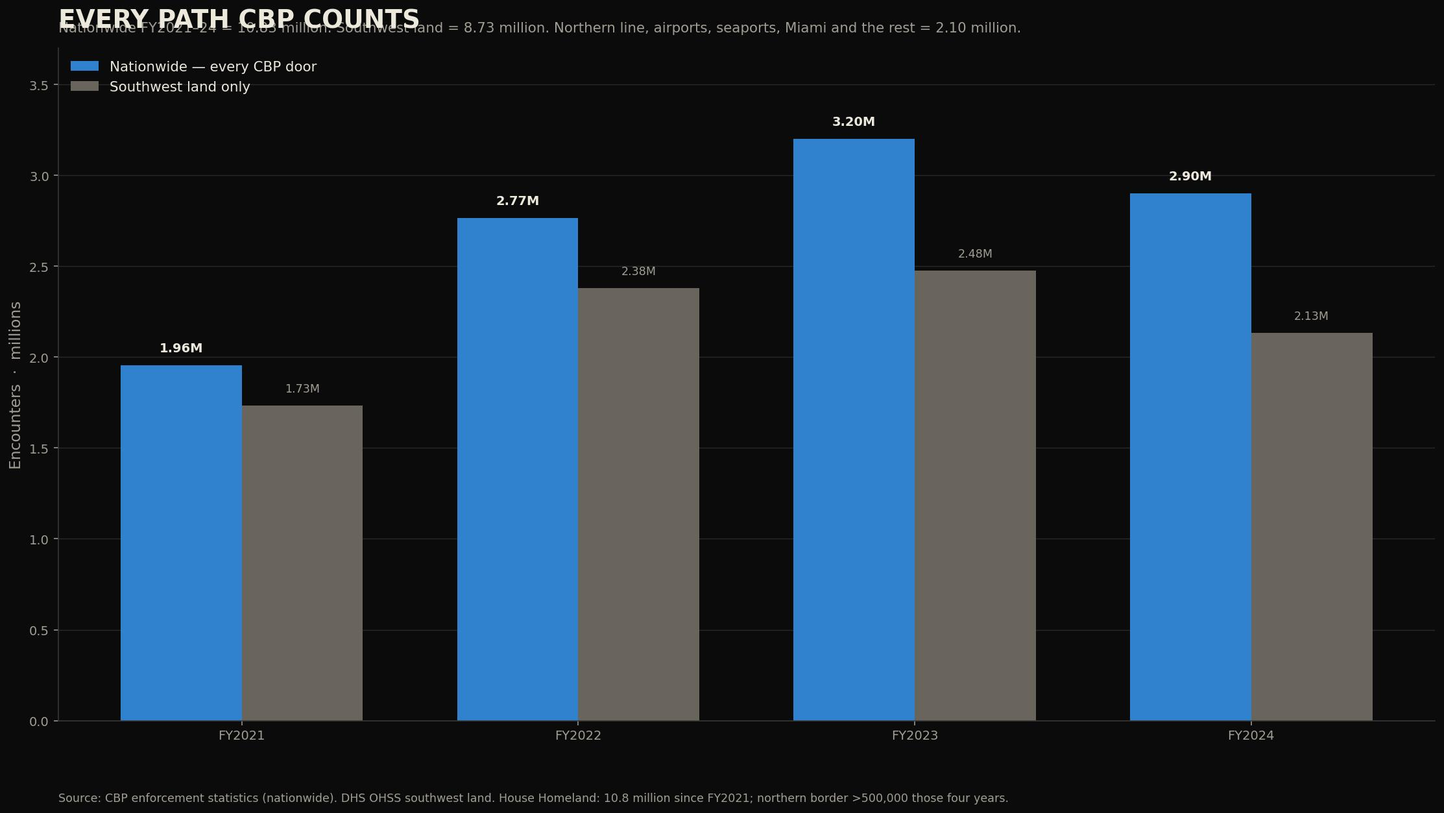
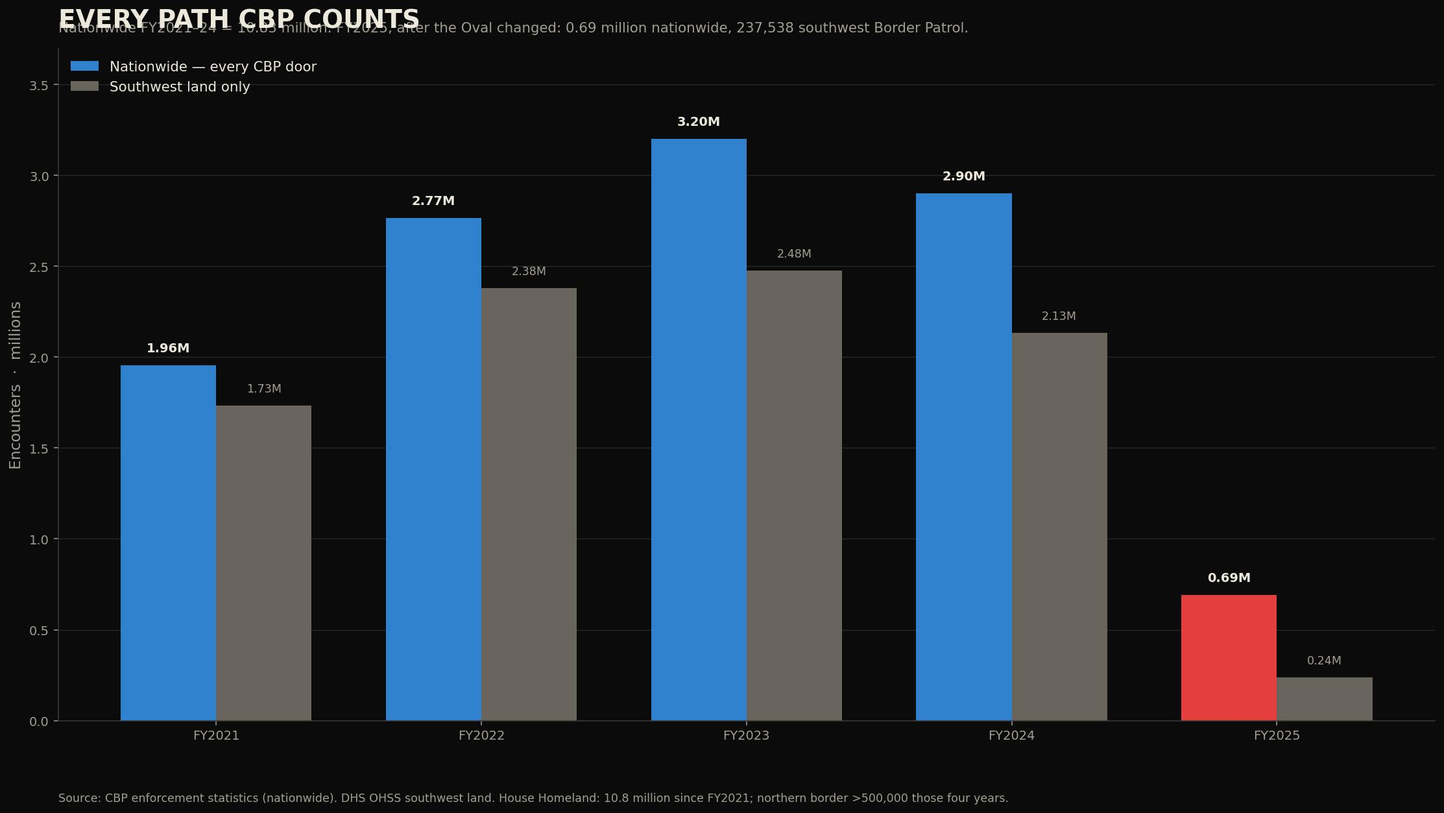
Charts: add Trump 2 peaks — CPI 4.2%, gas .50, FY2025 0.69M encounters.

diff --git a/UPLOAD-TO-NAMECHEAP/scorecard.html b/UPLOAD-TO-NAMECHEAP/scorecard.html
@@ -106,12 +106,12 @@ footer .f{max-width:72rem;margin:0 auto;display:flex;justify-content:space-betwe
 </div>
 <div class="panel" id="oval-charts">
 <p class="btns"><a class="btn" href="#oval-charts">Charts</a><a class="btn out" href="#oval-read">Read</a></p>
-<p class="kicker">What an encounter is</p><p>Customs and Border Protection counts an encounter when its officers meet a person who is not making a lawful entry. That is Border Patrol between the ports of entry, and officers at land ports, airports, and seaports. It is people stopped, turned back, expelled, or processed. It is not a visa. It is not a gotaway — those are the people CBP did not meet. Nationwide means every door CBP counts, not only the southwest river. Bush and Obama use southwest Border Patrol, the long official table. Trump 1 and Biden use CBP nationwide when that dashboard exists. Four Ovals: two Republican, two Democratic.</p><p><a href="https://www.cbp.gov/newsroom/stats/nationwide-encounters">CBP — nationwide encounters →</a></p><p class="kicker">What CPI peak means</p><p>CPI is the Consumer Price Index. The Bureau of Labor Statistics measures a basket of what people actually buy — groceries, rent, fuel, the doctor’s office — and reports how much more that basket costs than a year earlier. CPI peak is the highest of those 12-month readings in that Oval. It is not a four-year average. Biden’s 9.1% is June 2022. Bush’s 5.6% is July 2008. Obama’s 3.9% is September 2011. Trump’s first term: 2.9%.</p><p><a href="https://www.bls.gov/cpi/">BLS — Consumer Price Index →</a></p>
+<p class="kicker">What an encounter is</p><p>Customs and Border Protection counts an encounter when its officers meet a person who is not making a lawful entry. That is Border Patrol between the ports of entry, and officers at land ports, airports, and seaports. It is people stopped, turned back, expelled, or processed. It is not a visa. It is not a gotaway — those are the people CBP did not meet. Nationwide means every door CBP counts, not only the southwest river. Bush and Obama use southwest Border Patrol, the long official table. Trump 1, Biden, and Trump 2 use CBP nationwide when that dashboard exists.</p><p><a href="https://www.cbp.gov/newsroom/stats/nationwide-encounters">CBP — nationwide encounters →</a></p><p class="kicker">What CPI peak means</p><p>CPI is the Consumer Price Index. The Bureau of Labor Statistics measures a basket of what people actually buy — groceries, rent, fuel, the doctor’s office — and reports how much more that basket costs than a year earlier. CPI peak is the highest of those 12-month readings in that Oval. It is not a four-year average. Biden’s 9.1% is June 2022. Bush’s 5.6% is July 2008. Obama’s 3.9% is September 2011. Trump 1: 2.9%. Trump 2 so far: 4.2% in May 2026.</p><p><a href="https://www.bls.gov/cpi/">BLS — Consumer Price Index →</a></p>
 <figure><p class="kicker">The Oval — encounters and the highest price spike (CPI)</p><img src="/images/chart-oval.jpg" alt="The Oval — encounters and the highest price spike (CPI)"/><figcaption style="color:#a39e93;font-size:.85rem"><a href="https://www.cbp.gov/newsroom/stats/cbp-enforcement-statistics">CBP — enforcement statistics</a> · <a href="https://www.bls.gov/cpi/">BLS — CPI</a> · <a href="https://www.eia.gov/petroleum/gasdiesel/">EIA — the gallon</a></figcaption></figure><figure><p class="kicker">The gallon — four administrations</p><img src="/images/chart-pump-admins.jpg" alt="The gallon — four administrations"/><figcaption style="color:#a39e93;font-size:.85rem"><a href="https://www.eia.gov/petroleum/gasdiesel/">EIA</a> · <a href="https://fred.stlouisfed.org/series/GASREGW">FRED GASREGW</a></figcaption></figure><figure><p class="kicker">Crime — murder rate by administration</p><img src="/images/chart-crime.jpg" alt="Crime — murder rate by administration"/><figcaption style="color:#a39e93;font-size:.85rem"><a href="https://www.fbi.gov/news/stories/violent-crime-falls-at-historic-rate-new-fbi-data-show">FBI — violent crime 2025</a> · <a href="https://bjs.ojp.gov/document/ckle24.pdf">BJS — Crime Known to Law Enforcement, 2024</a></figcaption></figure><figure><p class="kicker">The open border — by administration</p><img src="/images/chart-border.jpg" alt="The open border — by administration"/><figcaption style="color:#a39e93;font-size:.85rem"><a href="https://www.cbp.gov/newsroom/stats/southwest-land-border-encounters">CBP — southwest encounters</a> · <a href="https://www.cbo.gov/publication/61256">CBO — 2023 state and local cost</a></figcaption></figure>
 </div>
 <div class="panel" id="compare-charts">
 <p class="btns"><a class="btn" href="#compare-charts">Charts</a><a class="btn out" href="#compare-read">Read</a></p>
-<p class="kicker">What an encounter is</p><p>Customs and Border Protection counts an encounter when its officers meet a person who is not making a lawful entry. That is Border Patrol between the ports of entry, and officers at land ports, airports, and seaports. It is people stopped, turned back, expelled, or processed. It is not a visa. It is not a gotaway — those are the people CBP did not meet. Nationwide means every door CBP counts, not only the southwest river. Bush and Obama use southwest Border Patrol, the long official table. Trump 1 and Biden use CBP nationwide when that dashboard exists. Four Ovals: two Republican, two Democratic.</p><p><a href="https://www.cbp.gov/newsroom/stats/nationwide-encounters">CBP — nationwide encounters →</a></p><p class="kicker">What CPI peak means</p><p>CPI is the Consumer Price Index. The Bureau of Labor Statistics measures a basket of what people actually buy — groceries, rent, fuel, the doctor’s office — and reports how much more that basket costs than a year earlier. CPI peak is the highest of those 12-month readings in that Oval. It is not a four-year average. Biden’s 9.1% is June 2022. Bush’s 5.6% is July 2008. Obama’s 3.9% is September 2011. Trump’s first term: 2.9%.</p><p><a href="https://www.bls.gov/cpi/">BLS — Consumer Price Index →</a></p>
+<p class="kicker">What an encounter is</p><p>Customs and Border Protection counts an encounter when its officers meet a person who is not making a lawful entry. That is Border Patrol between the ports of entry, and officers at land ports, airports, and seaports. It is people stopped, turned back, expelled, or processed. It is not a visa. It is not a gotaway — those are the people CBP did not meet. Nationwide means every door CBP counts, not only the southwest river. Bush and Obama use southwest Border Patrol, the long official table. Trump 1, Biden, and Trump 2 use CBP nationwide when that dashboard exists.</p><p><a href="https://www.cbp.gov/newsroom/stats/nationwide-encounters">CBP — nationwide encounters →</a></p><p class="kicker">What CPI peak means</p><p>CPI is the Consumer Price Index. The Bureau of Labor Statistics measures a basket of what people actually buy — groceries, rent, fuel, the doctor’s office — and reports how much more that basket costs than a year earlier. CPI peak is the highest of those 12-month readings in that Oval. It is not a four-year average. Biden’s 9.1% is June 2022. Bush’s 5.6% is July 2008. Obama’s 3.9% is September 2011. Trump 1: 2.9%. Trump 2 so far: 4.2% in May 2026.</p><p><a href="https://www.bls.gov/cpi/">BLS — Consumer Price Index →</a></p>
 <figure><p class="kicker">Helped and hurt — Congress and the Oval</p><img src="/images/chart-helped-hurt.jpg" alt="Helped and hurt — Congress and the Oval"/><figcaption style="color:#a39e93;font-size:.85rem"><a href="https://www.congress.gov/">Congress.gov</a> · <a href="https://www.bls.gov/cpi/">BLS CPI</a> · <a href="https://www.eia.gov/petroleum/gasdiesel/">EIA — the gallon</a> · <a href="https://www.cbp.gov/newsroom/stats/nationwide-encounters">CBP nationwide</a></figcaption></figure><figure><p class="kicker">The Oval — encounters and the highest price spike (CPI)</p><img src="/images/chart-oval.jpg" alt="The Oval — encounters and the highest price spike (CPI)"/><figcaption style="color:#a39e93;font-size:.85rem"><a href="https://www.cbp.gov/newsroom/stats/cbp-enforcement-statistics">CBP — enforcement statistics</a> · <a href="https://www.bls.gov/cpi/">BLS — CPI</a> · <a href="https://www.eia.gov/petroleum/gasdiesel/">EIA — the gallon</a></figcaption></figure><figure><p class="kicker">The debt — no oversight, $40 trillion, full-time pay for part-time hours</p><img src="/images/chart-debt-why.jpg" alt="The debt — no oversight, $40 trillion, full-time pay for part-time hours"/><figcaption style="color:#a39e93;font-size:.85rem"><a href="https://www.cbo.gov/topics/budget">CBO — budget</a> · <a href="https://fiscaldata.treasury.gov/datasets/debt-to-the-penny/">Treasury — Debt to the Penny</a> · <a href="https://www.gao.gov/products/gao-25-107746">GAO fraud</a></figcaption></figure><figure><p class="kicker">The invasion bill — taxpayer cost and the eligibility doors</p><img src="/images/chart-aliens.jpg" alt="The invasion bill — taxpayer cost and the eligibility doors"/><figcaption style="color:#a39e93;font-size:.85rem"><a href="https://www.cbp.gov/newsroom/stats/nationwide-encounters">CBP nationwide</a> · <a href="https://www.cbo.gov/publication/61256">CBO 61256</a> · <a href="https://www.cbo.gov/publication/60805">CBO 60805</a> · <a href="https://www.law.cornell.edu/uscode/text/8/1611">8 U.S.C. § 1611</a></figcaption></figure><figure><p class="kicker">Actual inflation — who held Congress</p><img src="/images/chart-inflation-party.jpg" alt="Actual inflation — who held Congress"/><figcaption style="color:#a39e93;font-size:.85rem"><a href="https://www.bls.gov/cpi/">BLS CPI-U</a> · <a href="https://www.bls.gov/news.release/archives/cpi_07132022.htm">9.1% — June 2022</a> · <a href="https://www.bls.gov/news.release/cpi.nr0.htm">BLS live — August 2026, 3.4%</a> · <a href="https://fred.stlouisfed.org/graph/?id=CPIAUCSL&units=pc1">FRED — 12-month CPI</a></figcaption></figure><figure><p class="kicker">Policy — success and failure</p><img src="/images/chart-policy.jpg" alt="Policy — success and failure"/><figcaption style="color:#a39e93;font-size:.85rem"><a href="https://www.congress.gov/">Congress.gov</a> · <a href="https://www.bls.gov/news.release/archives/cpi_07132022.htm">BLS — June 2022</a></figcaption></figure><figure><p class="kicker">The open border — by administration</p><img src="/images/chart-border.jpg" alt="The open border — by administration"/><figcaption style="color:#a39e93;font-size:.85rem"><a href="https://www.cbp.gov/newsroom/stats/southwest-land-border-encounters">CBP — southwest encounters</a> · <a href="https://www.cbo.gov/publication/61256">CBO — 2023 state and local cost</a></figcaption></figure><figure><p class="kicker">Crime — murder rate by administration</p><img src="/images/chart-crime.jpg" alt="Crime — murder rate by administration"/><figcaption style="color:#a39e93;font-size:.85rem"><a href="https://www.fbi.gov/news/stories/violent-crime-falls-at-historic-rate-new-fbi-data-show">FBI — violent crime 2025</a> · <a href="https://bjs.ojp.gov/document/ckle24.pdf">BJS — Crime Known to Law Enforcement, 2024</a></figcaption></figure><figure><p class="kicker">The gallon — four administrations</p><img src="/images/chart-pump-admins.jpg" alt="The gallon — four administrations"/><figcaption style="color:#a39e93;font-size:.85rem"><a href="https://www.eia.gov/petroleum/gasdiesel/">EIA</a> · <a href="https://fred.stlouisfed.org/series/GASREGW">FRED GASREGW</a></figcaption></figure><figure><p class="kicker">Highest week of each year, 2001–2026</p><img src="/images/chart-pump-years.jpg" alt="Highest week of each year, 2001–2026"/><figcaption style="color:#a39e93;font-size:.85rem"><a href="https://www.eia.gov/petroleum/gasdiesel/">EIA</a> · <a href="https://fred.stlouisfed.org/series/GASREGW">FRED GASREGW</a></figcaption></figure><figure><p class="kicker">How a gallon is built — OPEC to the pump</p><img src="/images/chart-pump-flow.jpg" alt="How a gallon is built — OPEC to the pump"/><figcaption style="color:#a39e93;font-size:.85rem"><a href="https://www.eia.gov/petroleum/gasdiesel/">EIA</a> · <a href="https://fred.stlouisfed.org/series/GASREGW">FRED GASREGW</a></figcaption></figure>
 </div>
 <div class="panel" id="gop-read">
@@ -166,12 +166,12 @@ footer .f{max-width:72rem;margin:0 auto;display:flex;justify-content:space-betwe
 <p class="btns"><a class="btn out" href="#oval-charts">Charts</a><a class="btn" href="#oval-read">Read</a></p>
 <h2>Oval</h2>
 <p class="kicker">What an encounter is</p>
-<p>Customs and Border Protection counts an encounter when its officers meet a person who is not making a lawful entry. That is Border Patrol between the ports of entry, and officers at land ports, airports, and seaports. It is people stopped, turned back, expelled, or processed. It is not a visa. It is not a gotaway — those are the people CBP did not meet. Nationwide means every door CBP counts, not only the southwest river. Bush and Obama use southwest Border Patrol, the long official table. Trump 1 and Biden use CBP nationwide when that dashboard exists. Four Ovals: two Republican, two Democratic.</p>
+<p>Customs and Border Protection counts an encounter when its officers meet a person who is not making a lawful entry. That is Border Patrol between the ports of entry, and officers at land ports, airports, and seaports. It is people stopped, turned back, expelled, or processed. It is not a visa. It is not a gotaway — those are the people CBP did not meet. Nationwide means every door CBP counts, not only the southwest river. Bush and Obama use southwest Border Patrol, the long official table. Trump 1, Biden, and Trump 2 use CBP nationwide when that dashboard exists.</p>
 <p><a href="https://www.cbp.gov/newsroom/stats/nationwide-encounters">CBP — nationwide encounters →</a></p>
 <p class="kicker">What CPI peak means</p>
-<p>CPI is the Consumer Price Index. The Bureau of Labor Statistics measures a basket of what people actually buy — groceries, rent, fuel, the doctor’s office — and reports how much more that basket costs than a year earlier. CPI peak is the highest of those 12-month readings in that Oval. It is not a four-year average. Biden’s 9.1% is June 2022. Bush’s 5.6% is July 2008. Obama’s 3.9% is September 2011. Trump’s first term: 2.9%.</p>
+<p>CPI is the Consumer Price Index. The Bureau of Labor Statistics measures a basket of what people actually buy — groceries, rent, fuel, the doctor’s office — and reports how much more that basket costs than a year earlier. CPI peak is the highest of those 12-month readings in that Oval. It is not a four-year average. Biden’s 9.1% is June 2022. Bush’s 5.6% is July 2008. Obama’s 3.9% is September 2011. Trump 1: 2.9%. Trump 2 so far: 4.2% in May 2026.</p>
 <p><a href="https://www.bls.gov/cpi/">BLS — Consumer Price Index →</a></p>
-<div class="grid"><div class="card" style="padding:1.2rem"><p class="kicker">Bush</p><p>FY2001–08</p><h3>8.02 million</h3><p>Southwest Border Patrol apprehensions, FY2001–08. CPI peak July 2008. EIA weekly regular: highest week $4.114 (July 7, 2008).</p><h3>5.6%</h3><p>CPI peak — highest 12-month rise in prices that Oval (groceries, rent, fuel)</p><h3>$4.114 peak</h3><p>highest EIA weekly gasoline</p></div><div class="card" style="padding:1.2rem"><p class="kicker">Obama</p><p>FY2009–16</p><h3>3.31 million</h3><p>Southwest Border Patrol apprehensions, FY2009–16. CBP’s nationwide combined dashboard was not published for those years. CPI peak September 2011. EIA weekly regular: highest week $3.965 (May 9, 2011).</p><h3>3.9%</h3><p>CPI peak — highest 12-month rise in prices that Oval (groceries, rent, fuel)</p><h3>$3.965 peak</h3><p>highest EIA weekly gasoline</p></div><div class="card" style="padding:1.2rem"><p class="kicker">Trump 1</p><p>FY2017–20</p><h3>3.00 million</h3><p>Nationwide encounters. CPI peak in the term. EIA weekly regular: highest week $2.962 (May 28, 2018).</p><h3>2.9%</h3><p>CPI peak — highest 12-month rise in prices that Oval (groceries, rent, fuel)</p><h3>$2.96 peak</h3><p>highest EIA weekly gasoline</p></div><div class="card" style="padding:1.2rem"><p class="kicker">Biden</p><p>FY2021–24</p><h3>10.83 million</h3><p>Nationwide encounters. CPI June 2022. EIA weekly regular: $5.006 the week of June 13, 2022.</p><h3>9.1%</h3><p>CPI peak — highest 12-month rise in prices that Oval (groceries, rent, fuel)</p><h3>$5.006 peak</h3><p>highest EIA weekly gasoline</p></div></div>
+<div class="grid"><div class="card" style="padding:1.2rem"><p class="kicker">Bush</p><p>FY2001–08</p><h3>8.02 million</h3><p>Southwest Border Patrol apprehensions, FY2001–08. CPI peak July 2008. EIA weekly regular: highest week $4.114 (July 7, 2008).</p><h3>5.6%</h3><p>CPI peak — highest 12-month rise in prices that Oval (groceries, rent, fuel)</p><h3>$4.114 peak</h3><p>highest EIA weekly gasoline</p></div><div class="card" style="padding:1.2rem"><p class="kicker">Obama</p><p>FY2009–16</p><h3>3.31 million</h3><p>Southwest Border Patrol apprehensions, FY2009–16. CBP’s nationwide combined dashboard was not published for those years. CPI peak September 2011. EIA weekly regular: highest week $3.965 (May 9, 2011).</p><h3>3.9%</h3><p>CPI peak — highest 12-month rise in prices that Oval (groceries, rent, fuel)</p><h3>$3.965 peak</h3><p>highest EIA weekly gasoline</p></div><div class="card" style="padding:1.2rem"><p class="kicker">Trump 1</p><p>FY2017–20</p><h3>3.00 million</h3><p>Nationwide encounters. CPI peak in the term. EIA weekly regular: highest week $2.962 (May 28, 2018).</p><h3>2.9%</h3><p>CPI peak — highest 12-month rise in prices that Oval (groceries, rent, fuel)</p><h3>$2.96 peak</h3><p>highest EIA weekly gasoline</p></div><div class="card" style="padding:1.2rem"><p class="kicker">Biden</p><p>FY2021–24</p><h3>10.83 million</h3><p>Nationwide encounters. CPI June 2022. EIA weekly regular: $5.006 the week of June 13, 2022.</p><h3>9.1%</h3><p>CPI peak — highest 12-month rise in prices that Oval (groceries, rent, fuel)</p><h3>$5.006 peak</h3><p>highest EIA weekly gasoline</p></div><div class="card" style="padding:1.2rem"><p class="kicker">Trump 2</p><p>FY2025–</p><h3>0.69 million</h3><p>FY2025 nationwide 691,906. Southwest Border Patrol 237,538 — lowest since 1970. CPI peak so far: 4.2% in May 2026 (FRED CPIAUCSL, 12-month). EIA weekly regular: highest week $4.500 (May 11, 2026). The fiscal year started under Biden; the Oval changed January 20.</p><h3>4.2%</h3><p>CPI peak — highest 12-month rise in prices that Oval (groceries, rent, fuel)</p><h3>$4.50 peak</h3><p>highest EIA weekly gasoline</p></div></div>
 <p><a href="https://www.cbp.gov/newsroom/stats/nationwide-encounters"><strong>This term</strong> · FY2025 · 0.69 million nationwide. After the Oval changed. Southwest Border Patrol 237,538 — lowest since 1970.</a></p>
 <p><a href="https://www.cbp.gov/newsroom/stats/nationwide-encounters">CBP — nationwide encounters</a> · <a href="https://www.cbp.gov/document/stats/us-border-patrol-fiscal-year-southwest-border-sector-apprehensions-fy-1960-fy-2019">CBP — southwest Border Patrol FY1960–2019</a> · <a href="https://www.bls.gov/news.release/archives/cpi_08142008.htm">BLS — CPI July 2008, 5.6%</a> · <a href="https://www.bls.gov/news.release/archives/cpi_10192011.htm">BLS — CPI September 2011, 3.9%</a> · <a href="https://www.cbp.gov/newsroom/stats/cbp-enforcement-statistics">CBP — enforcement statistics</a> · <a href="https://www.bls.gov/cpi/">BLS — CPI</a> · <a href="https://www.eia.gov/petroleum/gasdiesel/">EIA — the gallon</a> · <a href="/pump.html">The pump</a></p>
 </div>
@@ -182,10 +182,10 @@ footer .f{max-width:72rem;margin:0 auto;display:flex;justify-content:space-betwe
 <p>Article I gives Congress the power of the purse. The Oval spends what Congress votes. Majority control means one party holds the House and the Senate at the same time. Then that party can pass a spending bill without the other. Success and failure on this page are the bills they passed and the prices, the border, and the debt that followed. A speech is not a record.</p>
 <p><a href="https://constitution.congress.gov/constitution/article-1/">Article I →</a></p>
 <p class="kicker">What an encounter is</p>
-<p>Customs and Border Protection counts an encounter when its officers meet a person who is not making a lawful entry. That is Border Patrol between the ports of entry, and officers at land ports, airports, and seaports. It is people stopped, turned back, expelled, or processed. It is not a visa. It is not a gotaway — those are the people CBP did not meet. Nationwide means every door CBP counts, not only the southwest river. Bush and Obama use southwest Border Patrol, the long official table. Trump 1 and Biden use CBP nationwide when that dashboard exists. Four Ovals: two Republican, two Democratic.</p>
+<p>Customs and Border Protection counts an encounter when its officers meet a person who is not making a lawful entry. That is Border Patrol between the ports of entry, and officers at land ports, airports, and seaports. It is people stopped, turned back, expelled, or processed. It is not a visa. It is not a gotaway — those are the people CBP did not meet. Nationwide means every door CBP counts, not only the southwest river. Bush and Obama use southwest Border Patrol, the long official table. Trump 1, Biden, and Trump 2 use CBP nationwide when that dashboard exists.</p>
 <p class="kicker">What CPI peak means</p>
-<p>CPI is the Consumer Price Index. The Bureau of Labor Statistics measures a basket of what people actually buy — groceries, rent, fuel, the doctor’s office — and reports how much more that basket costs than a year earlier. CPI peak is the highest of those 12-month readings in that Oval. It is not a four-year average. Biden’s 9.1% is June 2022. Bush’s 5.6% is July 2008. Obama’s 3.9% is September 2011. Trump’s first term: 2.9%.</p>
-<div class="grid"><div class="card" style="padding:1.2rem"><p class="kicker">Bush</p><p>FY2001–08</p><h3>8.02 million</h3><h3>5.6%</h3><p>CPI peak — highest 12-month rise in prices that Oval (groceries, rent, fuel)</p><h3>$4.114 peak</h3></div><div class="card" style="padding:1.2rem"><p class="kicker">Obama</p><p>FY2009–16</p><h3>3.31 million</h3><h3>3.9%</h3><p>CPI peak — highest 12-month rise in prices that Oval (groceries, rent, fuel)</p><h3>$3.965 peak</h3></div><div class="card" style="padding:1.2rem"><p class="kicker">Trump 1</p><p>FY2017–20</p><h3>3.00 million</h3><h3>2.9%</h3><p>CPI peak — highest 12-month rise in prices that Oval (groceries, rent, fuel)</p><h3>$2.96 peak</h3></div><div class="card" style="padding:1.2rem"><p class="kicker">Biden</p><p>FY2021–24</p><h3>10.83 million</h3><h3>9.1%</h3><p>CPI peak — highest 12-month rise in prices that Oval (groceries, rent, fuel)</p><h3>$5.006 peak</h3></div></div>
+<p>CPI is the Consumer Price Index. The Bureau of Labor Statistics measures a basket of what people actually buy — groceries, rent, fuel, the doctor’s office — and reports how much more that basket costs than a year earlier. CPI peak is the highest of those 12-month readings in that Oval. It is not a four-year average. Biden’s 9.1% is June 2022. Bush’s 5.6% is July 2008. Obama’s 3.9% is September 2011. Trump 1: 2.9%. Trump 2 so far: 4.2% in May 2026.</p>
+<div class="grid"><div class="card" style="padding:1.2rem"><p class="kicker">Bush</p><p>FY2001–08</p><h3>8.02 million</h3><h3>5.6%</h3><p>CPI peak — highest 12-month rise in prices that Oval (groceries, rent, fuel)</p><h3>$4.114 peak</h3></div><div class="card" style="padding:1.2rem"><p class="kicker">Obama</p><p>FY2009–16</p><h3>3.31 million</h3><h3>3.9%</h3><p>CPI peak — highest 12-month rise in prices that Oval (groceries, rent, fuel)</p><h3>$3.965 peak</h3></div><div class="card" style="padding:1.2rem"><p class="kicker">Trump 1</p><p>FY2017–20</p><h3>3.00 million</h3><h3>2.9%</h3><p>CPI peak — highest 12-month rise in prices that Oval (groceries, rent, fuel)</p><h3>$2.96 peak</h3></div><div class="card" style="padding:1.2rem"><p class="kicker">Biden</p><p>FY2021–24</p><h3>10.83 million</h3><h3>9.1%</h3><p>CPI peak — highest 12-month rise in prices that Oval (groceries, rent, fuel)</p><h3>$5.006 peak</h3></div><div class="card" style="padding:1.2rem"><p class="kicker">Trump 2</p><p>FY2025–</p><h3>0.69 million</h3><h3>4.2%</h3><p>CPI peak — highest 12-month rise in prices that Oval (groceries, rent, fuel)</p><h3>$4.50 peak</h3></div></div>
 <h2>The invasion bill — who paid, who became eligible</h2>
 <p>10.83 million nationwide encounters, FY2021–24. Democrats held the Oval. They held majority control of the House and the Senate 2021–23. They ended Remain in Mexico. They ended Title 42. They ran parole — Cubans, Haitians, Nicaraguans, Venezuelans, and the rest — that turned a crossing into a status, a status into a Social Security number, and a number into a check. 8 U.S.C. § 1611 already barred most federal benefits for aliens who are not qualified. They built the exception. That is how an invasion becomes a welfare line.</p>
 <figure><img src="/images/chart-aliens.jpg" alt="The invasion bill"/></figure>

diff --git a/UPLOAD-TO-NAMECHEAP/pump.html b/UPLOAD-TO-NAMECHEAP/pump.html
@@ -110,10 +110,10 @@ footer .f{max-width:72rem;margin:0 auto;display:flex;justify-content:space-betwe
 <table style="width:100%;border-collapse:collapse;font-size:1.05rem">
 <thead><tr><th style="text-align:left;border-bottom:1px solid var(--line);padding:.6rem 0">Administration</th><th style="text-align:left;border-bottom:1px solid var(--line)">Peak gasoline</th><th style="text-align:left;border-bottom:1px solid var(--line)">Peak diesel</th><th style="text-align:left;border-bottom:1px solid var(--line)">Peak WTI, $ per barrel</th></tr></thead>
 <tbody>
-<tr><td style="border-bottom:1px solid var(--line);padding:.7rem 0">Bush <span style="color:var(--muted)">2001–08</span></td><td style="border-bottom:1px solid var(--line)">$4.11<br/><span style="color:var(--muted);font-size:.8rem">week of July 7, 2008</span></td><td style="border-bottom:1px solid var(--line)">$4.74<br/><span style="color:var(--muted);font-size:.8rem">week of July 14, 2008</span></td><td style="border-bottom:1px solid var(--line)">$145.29<br/><span style="color:var(--muted);font-size:.8rem">July 3, 2008</span></td></tr><tr><td style="border-bottom:1px solid var(--line);padding:.7rem 0">Obama <span style="color:var(--muted)">2009–16</span></td><td style="border-bottom:1px solid var(--line)">$3.96<br/><span style="color:var(--muted);font-size:.8rem">week of May 9, 2011</span></td><td style="border-bottom:1px solid var(--line)">$4.16<br/><span style="color:var(--muted);font-size:.8rem">week of Feb. 25, 2013</span></td><td style="border-bottom:1px solid var(--line)">$113.03<br/><span style="color:var(--muted);font-size:.8rem">May 2, 2011</span></td></tr><tr><td style="border-bottom:1px solid var(--line);padding:.7rem 0">Trump 1 <span style="color:var(--muted)">2017–20</span></td><td style="border-bottom:1px solid var(--line)">$2.96<br/><span style="color:var(--muted);font-size:.8rem">week of May 28, 2018</span></td><td style="border-bottom:1px solid var(--line)">$3.39<br/><span style="color:var(--muted);font-size:.8rem">week of Oct. 15, 2018</span></td><td style="border-bottom:1px solid var(--line)">$77.41<br/><span style="color:var(--muted);font-size:.8rem">June 27, 2018</span></td></tr><tr><td style="border-bottom:1px solid var(--line);padding:.7rem 0">Biden <span style="color:var(--muted)">2021–24</span></td><td style="border-bottom:1px solid var(--line)">$5.01<br/><span style="color:var(--muted);font-size:.8rem">week of June 13, 2022</span></td><td style="border-bottom:1px solid var(--line)">$5.81<br/><span style="color:var(--muted);font-size:.8rem">week of June 20, 2022</span></td><td style="border-bottom:1px solid var(--line)">$123.64<br/><span style="color:var(--muted);font-size:.8rem">March 8, 2022</span></td></tr>
+<tr><td style="border-bottom:1px solid var(--line);padding:.7rem 0">Bush <span style="color:var(--muted)">2001–08</span></td><td style="border-bottom:1px solid var(--line)">$4.11<br/><span style="color:var(--muted);font-size:.8rem">week of July 7, 2008</span></td><td style="border-bottom:1px solid var(--line)">$4.74<br/><span style="color:var(--muted);font-size:.8rem">week of July 14, 2008</span></td><td style="border-bottom:1px solid var(--line)">$145.29<br/><span style="color:var(--muted);font-size:.8rem">July 3, 2008</span></td></tr><tr><td style="border-bottom:1px solid var(--line);padding:.7rem 0">Obama <span style="color:var(--muted)">2009–16</span></td><td style="border-bottom:1px solid var(--line)">$3.96<br/><span style="color:var(--muted);font-size:.8rem">week of May 9, 2011</span></td><td style="border-bottom:1px solid var(--line)">$4.16<br/><span style="color:var(--muted);font-size:.8rem">week of Feb. 25, 2013</span></td><td style="border-bottom:1px solid var(--line)">$113.03<br/><span style="color:var(--muted);font-size:.8rem">May 2, 2011</span></td></tr><tr><td style="border-bottom:1px solid var(--line);padding:.7rem 0">Trump 1 <span style="color:var(--muted)">2017–20</span></td><td style="border-bottom:1px solid var(--line)">$2.96<br/><span style="color:var(--muted);font-size:.8rem">week of May 28, 2018</span></td><td style="border-bottom:1px solid var(--line)">$3.39<br/><span style="color:var(--muted);font-size:.8rem">week of Oct. 15, 2018</span></td><td style="border-bottom:1px solid var(--line)">$77.41<br/><span style="color:var(--muted);font-size:.8rem">June 27, 2018</span></td></tr><tr><td style="border-bottom:1px solid var(--line);padding:.7rem 0">Biden <span style="color:var(--muted)">2021–24</span></td><td style="border-bottom:1px solid var(--line)">$5.01<br/><span style="color:var(--muted);font-size:.8rem">week of June 13, 2022</span></td><td style="border-bottom:1px solid var(--line)">$5.81<br/><span style="color:var(--muted);font-size:.8rem">week of June 20, 2022</span></td><td style="border-bottom:1px solid var(--line)">$123.64<br/><span style="color:var(--muted);font-size:.8rem">March 8, 2022</span></td></tr><tr><td style="border-bottom:1px solid var(--line);padding:.7rem 0">Trump 2 <span style="color:var(--muted)">2025–</span></td><td style="border-bottom:1px solid var(--line)">$4.50<br/><span style="color:var(--muted);font-size:.8rem">week of May 11, 2026</span></td><td style="border-bottom:1px solid var(--line)">$5.97<br/><span style="color:var(--muted);font-size:.8rem">week of Sept. 7, 2026</span></td><td style="border-bottom:1px solid var(--line)">$114.58<br/><span style="color:var(--muted);font-size:.8rem">April 7, 2026</span></td></tr>
 </tbody>
 </table>
-<p><a href="https://fred.stlouisfed.org/series/GASREGW"><strong>Record regular gasoline</strong> — June 13, 2022  ·  $5.006  ·  Biden</a><br/><a href="https://fred.stlouisfed.org/series/GASDESW"><strong>Biden diesel high</strong> — June 20, 2022  ·  $5.810</a><br/><a href="https://fred.stlouisfed.org/series/GASDESW"><strong>Highest diesel in the series</strong> — Sept. 14, 2026  ·  $6.285  ·  Trump 2</a><br/><a href="https://www.eia.gov/petroleum/gasdiesel/"><strong>Latest week</strong> — Sept. 14, 2026  ·  gasoline $4.319  ·  diesel $6.285</a></p>
+<p><a href="https://fred.stlouisfed.org/series/GASREGW"><strong>Record regular gasoline</strong> — June 13, 2022  ·  $5.006  ·  Biden</a><br/><a href="https://fred.stlouisfed.org/series/GASDESW"><strong>Biden diesel high</strong> — June 20, 2022  ·  $5.810</a><br/><a href="https://fred.stlouisfed.org/series/GASDESW"><strong>Highest diesel in this file so far</strong> — Sept. 7, 2026  ·  $5.967  ·  Trump 2  ·  FRED GASDESW</a><br/><a href="https://www.eia.gov/petroleum/gasdiesel/"><strong>Latest week in the FRED file</strong> — Sept. 7, 2026  ·  gasoline $4.157  ·  diesel $5.967</a></p>
 <p style="color:var(--muted);font-size:.9rem">Sources: <a href="https://www.eia.gov/petroleum/gasdiesel/">EIA — weekly gasoline and diesel</a> · <a href="https://www.eia.gov/dnav/pet/pet_pri_gnd_dcus_nus_a.htm">EIA — U.S. regular gasoline annual</a> · <a href="https://fred.stlouisfed.org/series/GASREGW">FRED GASREGW — EIA regular gasoline</a> · <a href="https://fred.stlouisfed.org/series/GASDESW">FRED GASDESW — EIA on-highway diesel</a> · <a href="https://fred.stlouisfed.org/series/DCOILWTICO">FRED — U.S. oil price (WTI, $ per barrel)</a> · <a href="https://www.opec.org/opec_web/en/about_us/25.htm">OPEC — who sits at the table</a> · <a href="https://www.eia.gov/energyexplained/gasoline/factors-affecting-prices.php">EIA — what is in a gallon</a> · <a href="https://www.eia.gov/petroleum/gasdiesel/gaspump_hist.php">EIA — gasoline pump components, monthly</a> · <a href="https://www.eia.gov/petroleum/marketing/monthly/xls/fueltaxes.xlsx">EIA — Federal and State Motor Fuel Taxes (spreadsheet)</a> · <a href="https://www.fhwa.dot.gov/policyinformation/statistics/">FHWA Highway Statistics — motor fuel</a> · <a href="https://www.eia.gov/outlooks/steo/">EIA STEO — world crude, OPEC+</a>. Calendar years sit with the Oval that held most of the year. WTI is West Texas Intermediate: dollars for one 42-gallon barrel of U.S. crude oil, before it is gasoline. Pump prices include tax.</p>
 </main>
 <footer>

diff --git a/src/lib/scorecard.ts b/src/lib/scorecard.ts
@@ -245,6 +245,16 @@ export const OVAL = [
     gas: "$5.006 peak",
     note: "Nationwide encounters. CPI June 2022. EIA weekly regular: $5.006 the week of June 13, 2022.",
   },
+  {
+    who: "Trump 2",
+    when: "FY2025–",
+    enc: "0.69 million",
+    encN: 0.69,
+    cpi: "4.2%",
+    cpiN: 4.2,
+    gas: "$4.50 peak",
+    note: "FY2025 nationwide 691,906. Southwest Border Patrol 237,538 — lowest since 1970. CPI peak so far: 4.2% in May 2026 (FRED CPIAUCSL, 12-month). EIA weekly regular: highest week $4.500 (May 11, 2026). The fiscal year started under Biden; the Oval changed January 20.",
+  },
 ] as const;
 
 /** This term, not the four-Oval compare. */
@@ -269,14 +279,14 @@ export const OVAL_LINKS = [
 /** What the Oval number is. CBP’s own count. */
 export const ENCOUNTERS = {
   k: "What an encounter is",
-  v: "Customs and Border Protection counts an encounter when its officers meet a person who is not making a lawful entry. That is Border Patrol between the ports of entry, and officers at land ports, airports, and seaports. It is people stopped, turned back, expelled, or processed. It is not a visa. It is not a gotaway — those are the people CBP did not meet. Nationwide means every door CBP counts, not only the southwest river. Bush and Obama use southwest Border Patrol, the long official table. Trump 1 and Biden use CBP nationwide when that dashboard exists. Four Ovals: two Republican, two Democratic.",
+  v: "Customs and Border Protection counts an encounter when its officers meet a person who is not making a lawful entry. That is Border Patrol between the ports of entry, and officers at land ports, airports, and seaports. It is people stopped, turned back, expelled, or processed. It is not a visa. It is not a gotaway — those are the people CBP did not meet. Nationwide means every door CBP counts, not only the southwest river. Bush and Obama use southwest Border Patrol, the long official table. Trump 1, Biden, and Trump 2 use CBP nationwide when that dashboard exists.",
   href: "https://www.cbp.gov/newsroom/stats/nationwide-encounters",
 };
 
 /** What CPI peak means. BLS. Not a mood. */
 export const CPI_PEAK = {
   k: "What CPI peak means",
-  v: "CPI is the Consumer Price Index. The Bureau of Labor Statistics measures a basket of what people actually buy — groceries, rent, fuel, the doctor’s office — and reports how much more that basket costs than a year earlier. CPI peak is the highest of those 12-month readings in that Oval. It is not a four-year average. Biden’s 9.1% is June 2022. Bush’s 5.6% is July 2008. Obama’s 3.9% is September 2011. Trump’s first term: 2.9%.",
+  v: "CPI is the Consumer Price Index. The Bureau of Labor Statistics measures a basket of what people actually buy — groceries, rent, fuel, the doctor’s office — and reports how much more that basket costs than a year earlier. CPI peak is the highest of those 12-month readings in that Oval. It is not a four-year average. Biden’s 9.1% is June 2022. Bush’s 5.6% is July 2008. Obama’s 3.9% is September 2011. Trump 1: 2.9%. Trump 2 so far: 4.2% in May 2026.",
   href: "https://www.bls.gov/cpi/",
 };
 

diff --git a/src/lib/pump.ts b/src/lib/pump.ts
@@ -106,6 +106,16 @@ export const ADMINS = [
     wti: 123.64,
     wtiWhen: "March 8, 2022",
   },
+  {
+    who: "Trump 2",
+    when: "2025–",
+    gas: 4.5,
+    gasWhen: "week of May 11, 2026",
+    diesel: 5.967,
+    dieselWhen: "week of Sept. 7, 2026",
+    wti: 114.58,
+    wtiWhen: "April 7, 2026",
+  },
 ] as const;
 
 export const MARKS = [
@@ -120,13 +130,13 @@ export const MARKS = [
     href: "https://fred.stlouisfed.org/series/GASDESW",
   },
   {
-    k: "Highest diesel in the series",
-    v: "Sept. 14, 2026  ·  $6.285  ·  Trump 2",
+    k: "Highest diesel in this file so far",
+    v: "Sept. 7, 2026  ·  $5.967  ·  Trump 2  ·  FRED GASDESW",
     href: "https://fred.stlouisfed.org/series/GASDESW",
   },
   {
-    k: "Latest week",
-    v: "Sept. 14, 2026  ·  gasoline $4.319  ·  diesel $6.285",
+    k: "Latest week in the FRED file",
+    v: "Sept. 7, 2026  ·  gasoline $4.157  ·  diesel $5.967",
     href: "https://www.eia.gov/petroleum/gasdiesel/",
   },
 ];

diff --git a/scripts/make-party-charts.py b/scripts/make-party-charts.py
@@ -269,7 +269,7 @@ ax.set_title("THE OPEN BORDER  ·  BY ADMINISTRATION", fontsize=20, fontweight="
 ax.text(
     0.0,
     1.02,
-    "CBP southwest Border Patrol. Bush FY2001–08. Obama FY2009–16. Trump FY2017–20. Biden FY2021–24.",
+    "CBP southwest Border Patrol. Bush FY2001–08. Obama FY2009–16. Trump 1 FY2017–20. Biden FY2021–24. Trump 2 FY2025: 237,538 — lowest since 1970.",
     transform=ax.transAxes,
     fontsize=11,
     color=muted,
@@ -308,27 +308,27 @@ fig.savefig("/workspace/public/images/chart-border.jpg", dpi=140, facecolor=bg, 
 plt.close()
 
 # Nationwide — every path CBP counts
-fy_n = [2021, 2022, 2023, 2024]
-nat = [1.956519, 2.766582, 3.201144, 2.901142]
-sw = [1.734680, 2.378940, 2.475670, 2.135000]
+fy_n = [2021, 2022, 2023, 2024, 2025]
+nat = [1.956519, 2.766582, 3.201144, 2.901142, 0.691906]
+sw = [1.734680, 2.378940, 2.475670, 2.135000, 0.237538]
 other = [n - s for n, s in zip(nat, sw)]
 fig, ax = plt.subplots(figsize=(16, 9), dpi=140, facecolor=bg)
 ax.set_facecolor(bg)
 x = list(range(len(fy_n)))
 w = 0.36
-ax.bar([i - w / 2 for i in x], nat, width=w, color=biden_c, label="Nationwide — every CBP door")
+ax.bar([i - w / 2 for i in x], nat, width=w, color=[biden_c, biden_c, biden_c, biden_c, trump_c], label="Nationwide — every CBP door")
 ax.bar([i + w / 2 for i in x], sw, width=w, color="#6a655c", label="Southwest land only")
 for i, (n, o) in enumerate(zip(nat, other)):
     ax.text(i - w / 2, n + 0.06, f"{n:.2f}M", ha="center", va="bottom", fontsize=10, fontweight="bold", color=fg)
     ax.text(i + w / 2, sw[i] + 0.06, f"{sw[i]:.2f}M", ha="center", va="bottom", fontsize=9, color=muted)
 ax.set_xticks(x)
-ax.set_xticklabels(["FY2021", "FY2022", "FY2023", "FY2024"])
+ax.set_xticklabels(["FY2021", "FY2022", "FY2023", "FY2024", "FY2025"])
 ax.set_ylabel("Encounters  ·  millions", fontsize=12, color=muted)
 ax.set_title("EVERY PATH CBP COUNTS", fontsize=20, fontweight="bold", color=fg, pad=16, loc="left")
 ax.text(
     0.0,
     1.02,
-    "Nationwide FY2021–24 = 10.83 million. Southwest land = 8.73 million. Northern line, airports, seaports, Miami and the rest = 2.10 million.",
+    "Nationwide FY2021–24 = 10.83 million. FY2025, after the Oval changed: 0.69 million nationwide, 237,538 southwest Border Patrol.",
     transform=ax.transAxes,
     fontsize=11,
     color=muted,
@@ -508,10 +508,10 @@ fig.savefig("/workspace/public/images/chart-debt-bars.jpg", dpi=140, facecolor=b
 plt.close()
 
 fig, axes = plt.subplots(1, 2, figsize=(16, 7), dpi=140, facecolor=bg)
-labs = ["Bush\nFY01–08", "Obama\nFY09–16", "Trump 1\nFY17–20", "Biden\nFY21–24"]
-enc = [8.02, 3.31, 3.00, 10.83]
-cpi = [5.6, 3.9, 2.9, 9.1]
-cols_o = [bush_c, obama_c, trump_c, biden_c]
+labs = ["Bush\nFY01–08", "Obama\nFY09–16", "Trump 1\nFY17–20", "Biden\nFY21–24", "Trump 2\nFY25–"]
+enc = [8.02, 3.31, 3.00, 10.83, 0.69]
+cpi = [5.6, 3.9, 2.9, 9.1, 4.2]
+cols_o = [bush_c, obama_c, trump_c, biden_c, trump_c]
 ax = axes[0]
 ax.set_facecolor(bg)
 ax.bar(labs, enc, color=cols_o, width=0.62)
@@ -539,7 +539,7 @@ fig.suptitle("THE OVAL — SAME METERS", fontsize=22, fontweight="bold", color=f
 fig.text(
     0.02,
     0.02,
-    "CPI is the Consumer Price Index: BLS’s basket of groceries, rent, fuel, the doctor. The bar is the highest 12-month reading in that Oval — not a four-year average. Bush July 2008 5.6%. Obama Sept 2011 3.9%. Trump 1: 2.9%. Biden June 2022 9.1%. Bush/Obama border: southwest Border Patrol. Trump 1/Biden: nationwide.",
+    "CPI peak is the highest 12-month reading in that Oval — not a four-year average. Bush July 2008 5.6%. Obama Sept 2011 3.9%. Trump 1: 2.9%. Biden June 2022 9.1%. Trump 2 so far: 4.2% May 2026. Encounters: Bush/Obama southwest Border Patrol. Trump 1 / Biden / Trump 2 nationwide. FY2025 started under Biden; the Oval changed January 20.",
     fontsize=9,
     color=muted,
 )
@@ -817,7 +817,7 @@ fig.text(0.02, 0.97, "HELPED AND HURT  ·  CONGRESS AND THE OVAL", fontsize=22, 
 fig.text(
     0.02,
     0.935,
-    "Majority control is the purse. The Oval spends what Congress votes. Two Republican Ovals, two Democratic Ovals. The bill, not the speech.",
+    "Majority control is the purse. The Oval spends what Congress votes. Five Ovals on the meters. The bill, not the speech.",
     fontsize=12,
     color=muted,
     va="top",
@@ -843,9 +843,9 @@ def box(ax, title, help_lines, hurt_lines, title_c):
         ax.text(0.5, y, "▸  " + line, fontsize=10, color=muted, va="top")
         y -= 0.7
 
-gs = fig.add_gridspec(2, 4, left=0.03, right=0.97, top=0.90, bottom=0.06, hspace=0.18, wspace=0.08)
+gs = fig.add_gridspec(2, 5, left=0.03, right=0.97, top=0.90, bottom=0.06, hspace=0.18, wspace=0.08)
 ax_g = fig.add_subplot(gs[0, :2])
-ax_d = fig.add_subplot(gs[0, 2:])
+ax_d = fig.add_subplot(gs[0, 3:])
 box(
     ax_g,
     "CONGRESS  ·  REPUBLICAN MAJORITY",
@@ -884,6 +884,12 @@ ovals = [
         ["IIJA 2021  ·  CHIPS 2022"],
         ["CPI peak 9.1% June 2022", "Gas $5.006  ·  June 13, 2022", "10.83 million nationwide"],
         biden_c,
+    ),
+    (
+        "TRUMP 2  ·  GOP OVAL",
+        ["SW Border Patrol FY25: 237,538", "Nationwide FY25: 0.69 million"],
+        ["CPI so far 4.2%  ·  May 2026", "Gas $4.50  ·  May 11, 2026"],
+        trump_c,
     ),
 ]
 for i, (title, h, u, c) in enumerate(ovals):

diff --git a/scripts/make-pump-charts.py b/scripts/make-pump-charts.py
@@ -36,7 +36,7 @@ def admins():
     d.text((64, 76), "Highest week. Not a four-year average.", font=font(36, True), fill=FG)
     d.text(
         (64, 128),
-        "EIA weekly U.S. regular gasoline and on-highway diesel. Biden’s gasoline peak is $5.006.",
+        "EIA weekly U.S. regular gasoline and on-highway diesel. Highest week in that Oval. Biden gasoline $5.006. Trump 2 gasoline $4.50.",
         font=font(22),
         fill=MUTED,
     )
@@ -45,18 +45,18 @@ def admins():
         ("Bush", "July 2008", 4.114, 4.737),
         ("Obama", "May 2011 / Feb 2013", 3.965, 4.159),
         ("Trump 1", "May 2018 / Oct 2018", 2.962, 3.394),
-        ("Biden", "June 13, 2022 / June 20, 2022", 5.006, 5.81),
+        ("Biden", "June 13 / 20, 2022", 5.006, 5.81),
+        ("Trump 2", "May 11 / Sept 7, 2026", 4.5, 5.967),
     ]
-    max_v = 6.285
+    max_v = 6.0
     base_y = 780
     max_h = 520
-    gap = 48
-    group_w = 340
-    bar_w = 128
-    left = 80
-    # axis
-    d.line([(64, base_y), (1536, base_y)], fill=LINE, width=2)
-    potus = [BUSH, OBAMA, TRUMP, BIDEN]
+    gap = 22
+    group_w = 270
+    bar_w = 108
+    left = 50
+    d.line([(48, base_y), (1552, base_y)], fill=LINE, width=2)
+    potus = [BUSH, OBAMA, TRUMP, BIDEN, TRUMP]
     for i, (who, when, gas, diesel) in enumerate(rows):
         x = left + i * (group_w + gap)
         gh = int(max_h * gas / max_v)
@@ -79,6 +79,8 @@ def admins():
     d.text((436, 198), "Trump 1", font=font(20, True), fill=FG)
     d.rectangle([600, 200, 624, 224], fill=BIDEN)
     d.text((636, 198), "Biden", font=font(20, True), fill=FG)
+    d.rectangle([780, 200, 804, 224], fill=TRUMP)
+    d.text((816, 198), "Trump 2", font=font(20, True), fill=FG)
     d.text((64, 850), "Left bar gasoline, right bar diesel. Source: EIA weekly  ·  FRED GASREGW / GASDESW  ·  highest week in that Oval", font=font(18), fill=MUTED)
     im.save(OUT / "chart-pump-admins.jpg", "JPEG", quality=90)
     print("wrote chart-pump-admins.jpg")
